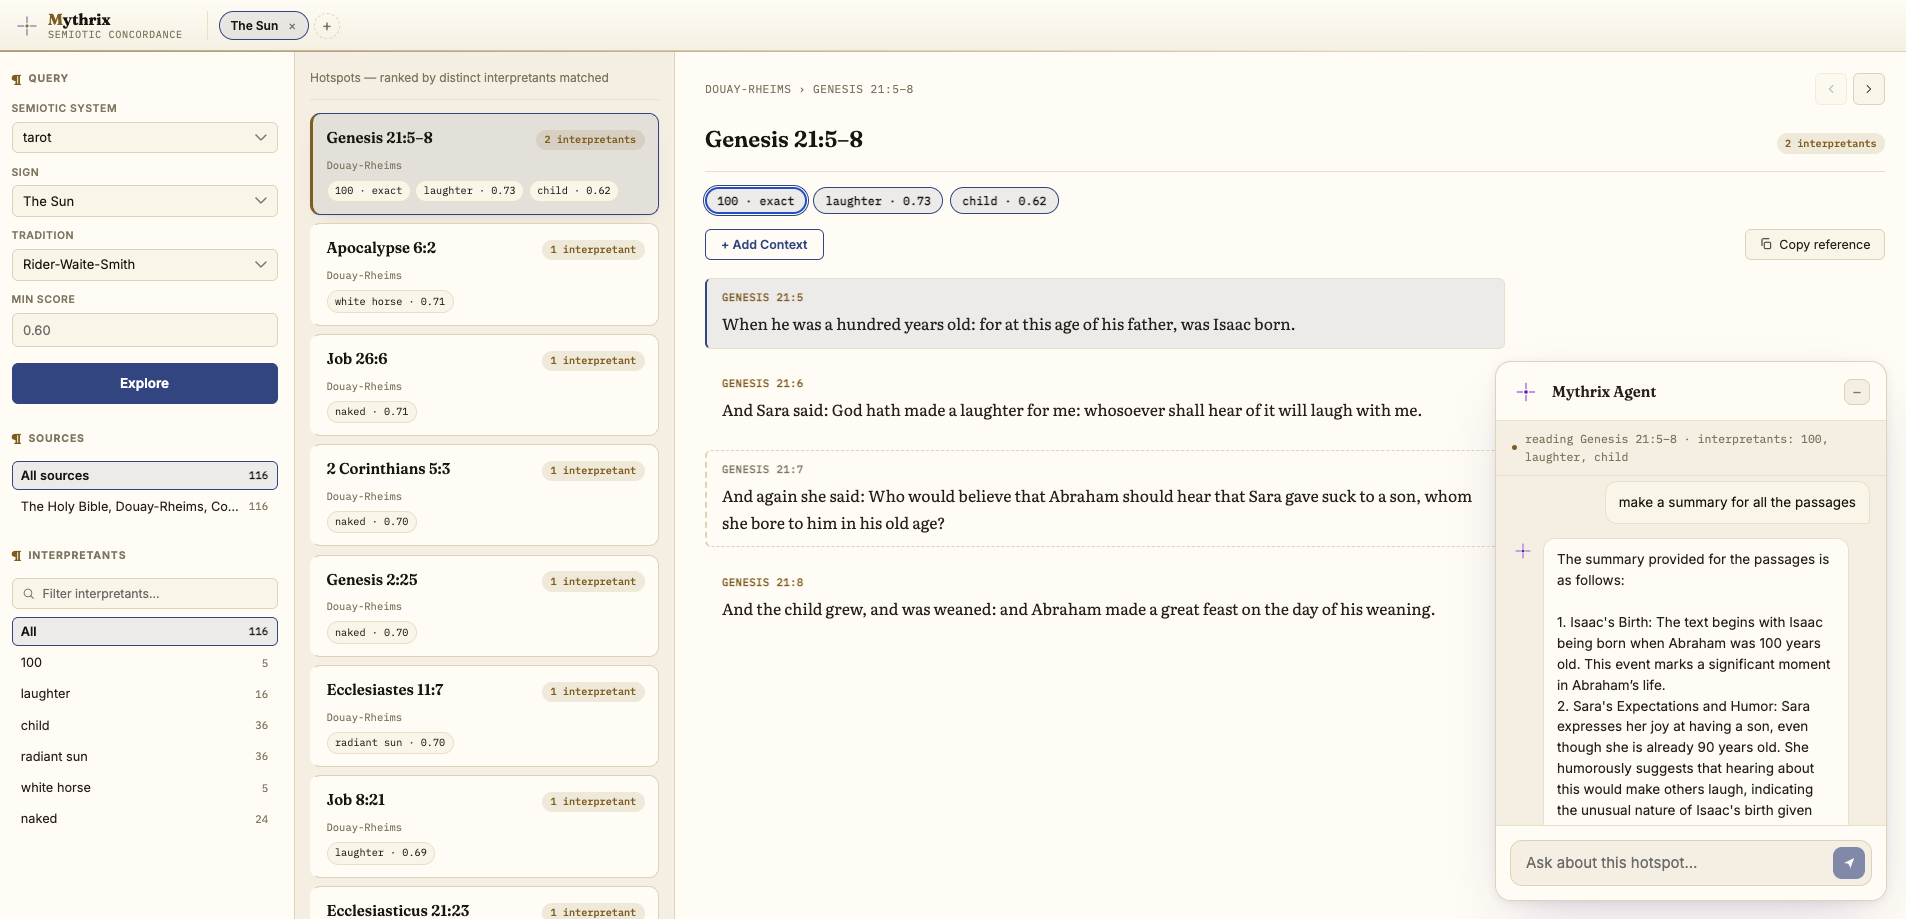
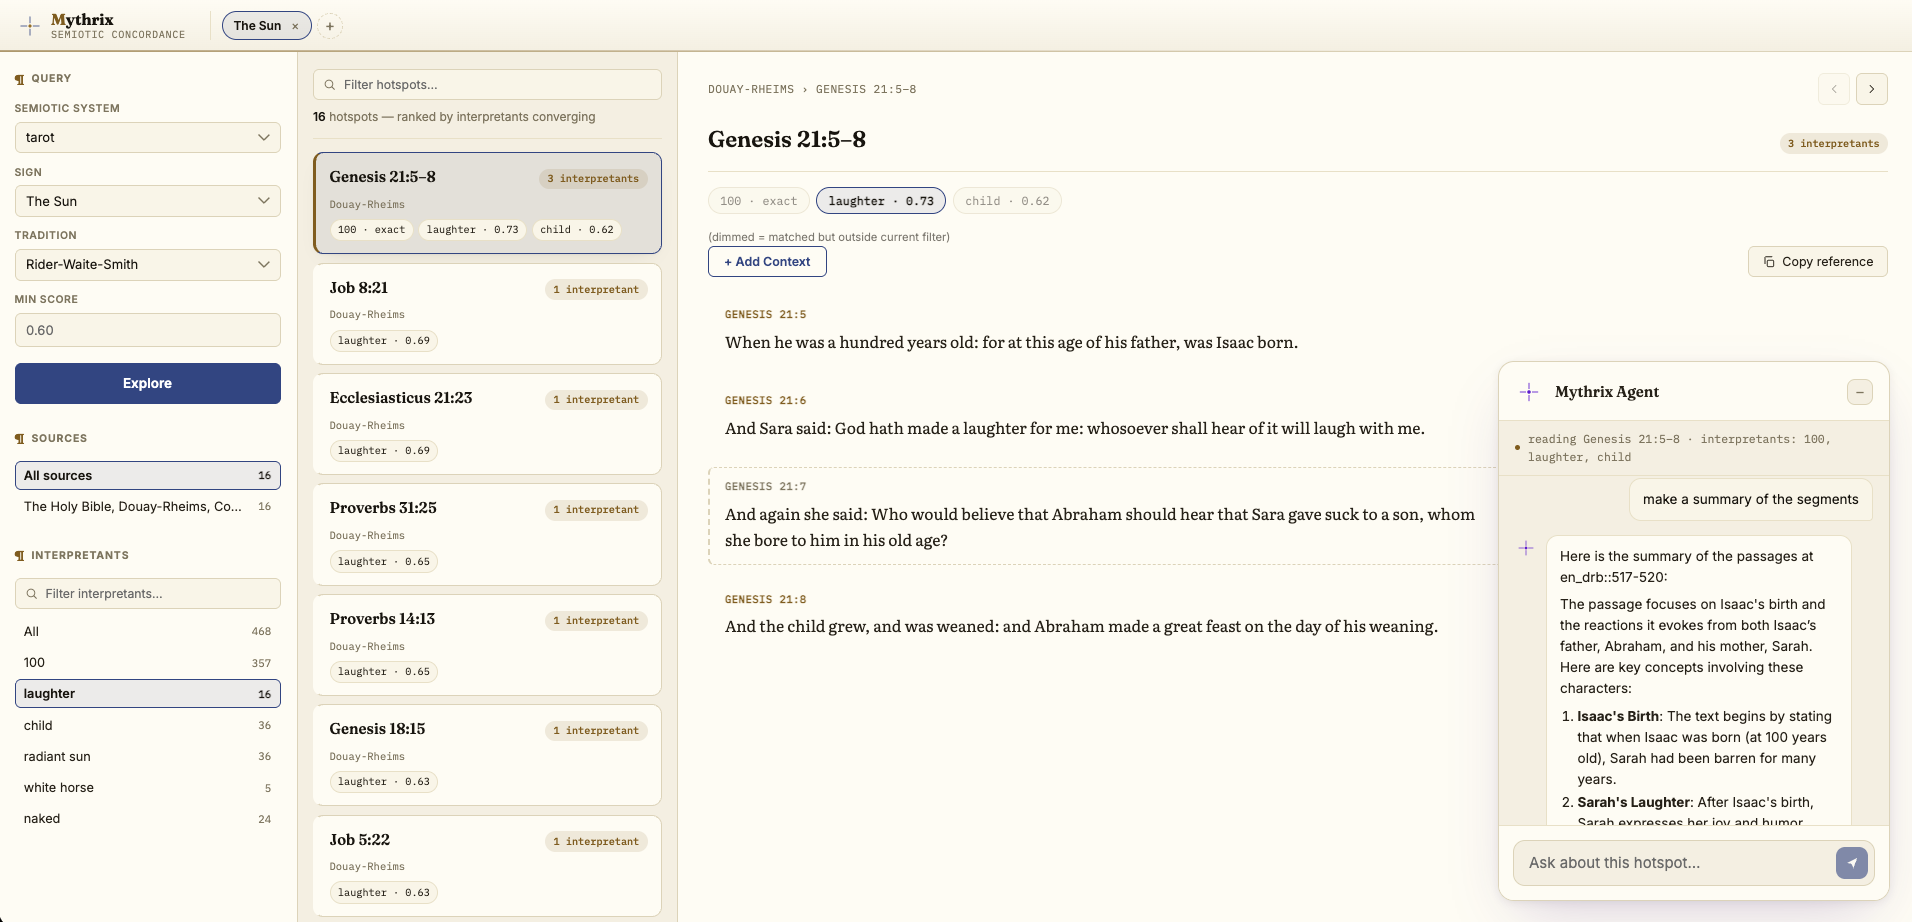
Add live search filter to hotspot rail
Filters the hotspot list by title, source, or interpretant as you type; header shows a live match count. Also updates mythrix.png.

diff --git a/web/src/components/HotspotList.test.tsx b/web/src/components/HotspotList.test.tsx
@@ -4,18 +4,48 @@ import { HotspotList } from './HotspotList';
 import { makeHotspot } from '../test/fixtures';
 
 it('shows the "no query yet" empty state when hasResult is false', () => {
-  render(<HotspotList headerText="Hotspots" hasResult={false} hotspots={[]} selectedRegionId={null} onSelect={vi.fn()} />);
+  render(
+    <HotspotList
+      headerText="Hotspots"
+      hasResult={false}
+      hotspots={[]}
+      selectedRegionId={null}
+      search=""
+      onSearchChange={vi.fn()}
+      onSelect={vi.fn()}
+    />,
+  );
   expect(screen.getByText('No query yet')).toBeInTheDocument();
 });
 
 it('shows the "no matches" empty state when hasResult is true but hotspots is empty', () => {
-  render(<HotspotList headerText="Hotspots" hasResult hotspots={[]} selectedRegionId={null} onSelect={vi.fn()} />);
+  render(
+    <HotspotList
+      headerText="Hotspots"
+      hasResult
+      hotspots={[]}
+      selectedRegionId={null}
+      search=""
+      onSearchChange={vi.fn()}
+      onSelect={vi.fn()}
+    />,
+  );
   expect(screen.getByText('No matches')).toBeInTheDocument();
 });
 
 it('renders the header and one card per hotspot when populated', () => {
   const hotspots = [makeHotspot({ regionId: 'r1' }), makeHotspot({ regionId: 'r2', locator: 'Ecclesiasticus 43:2' })];
-  render(<HotspotList headerText="Hotspots header" hasResult hotspots={hotspots} selectedRegionId="r1" onSelect={vi.fn()} />);
+  render(
+    <HotspotList
+      headerText="Hotspots header"
+      hasResult
+      hotspots={hotspots}
+      selectedRegionId="r1"
+      search=""
+      onSearchChange={vi.fn()}
+      onSelect={vi.fn()}
+    />,
+  );
   expect(screen.getByText('Hotspots header')).toBeInTheDocument();
   expect(screen.getAllByRole('button')).toHaveLength(2);
 });
@@ -23,7 +53,17 @@ it('renders the header and one card per hotspot when populated', () => {
 it('marks the selected hotspot active and calls onSelect with its regionId', async () => {
   const onSelect = vi.fn();
   const hotspots = [makeHotspot({ regionId: 'r1', locator: 'A' }), makeHotspot({ regionId: 'r2', locator: 'B' })];
-  render(<HotspotList headerText="h" hasResult hotspots={hotspots} selectedRegionId="r1" onSelect={onSelect} />);
+  render(
+    <HotspotList
+      headerText="h"
+      hasResult
+      hotspots={hotspots}
+      selectedRegionId="r1"
+      search=""
+      onSearchChange={vi.fn()}
+      onSelect={onSelect}
+    />,
+  );
 
   const buttons = screen.getAllByRole('button');
   expect(buttons[0]).toHaveClass('active');
@@ -31,4 +71,35 @@ it('marks the selected hotspot active and calls onSelect with its regionId', asy
 
   await userEvent.click(buttons[1]);
   expect(onSelect).toHaveBeenCalledWith('r2');
+});
+
+it('renders the search box only when hasResult, and reports typed text via onSearchChange', async () => {
+  const onSearchChange = vi.fn();
+  const { rerender } = render(
+    <HotspotList
+      headerText="Hotspots"
+      hasResult={false}
+      hotspots={[]}
+      selectedRegionId={null}
+      search=""
+      onSearchChange={onSearchChange}
+      onSelect={vi.fn()}
+    />,
+  );
+  expect(screen.queryByPlaceholderText('Filter hotspots…')).not.toBeInTheDocument();
+
+  rerender(
+    <HotspotList
+      headerText="Hotspots"
+      hasResult
+      hotspots={[]}
+      selectedRegionId={null}
+      search=""
+      onSearchChange={onSearchChange}
+      onSelect={vi.fn()}
+    />,
+  );
+  const input = screen.getByPlaceholderText('Filter hotspots…');
+  await userEvent.type(input, 'x');
+  expect(onSearchChange).toHaveBeenCalledWith('x');
 });

diff --git a/web/src/state/useTabs.ts b/web/src/state/useTabs.ts
@@ -36,6 +36,7 @@ export interface Tab {
   selectedInterpretant: string | null;
   selectedRegionId: string | null;
   interpretantSearch: string;
+  hotspotSearch: string;
   agentSessionId: string;
   agentItems: ThreadItem[];
   agentSending: boolean;
@@ -57,6 +58,7 @@ function makeTab(): Tab {
     selectedInterpretant: null,
     selectedRegionId: null,
     interpretantSearch: '',
+    hotspotSearch: '',
     agentSessionId: crypto.randomUUID(),
     agentItems: [],
     agentSending: false,
@@ -129,6 +131,7 @@ export function useTabs() {
   const setSourceId = (value: string | null) => updateActiveTab({ selectedSourceId: value });
   const setInterpretant = (value: string | null) => updateActiveTab({ selectedInterpretant: value });
   const setInterpretantSearch = (value: string) => updateActiveTab({ interpretantSearch: value });
+  const setHotspotSearch = (value: string) => updateActiveTab({ hotspotSearch: value });
   const setRegionId = (value: string | null) => updateActiveTab({ selectedRegionId: value });
 
   async function runQuery() {
@@ -153,17 +156,22 @@ export function useTabs() {
 
   const rankedHotspots = useMemo(() => {
     if (!activeTab.queryResult) return [];
+    const search = activeTab.hotspotSearch.trim().toLowerCase();
     const filtered = activeTab.queryResult.hotspots.filter(
       (hotspot) =>
         (activeTab.selectedSourceId === null || hotspot.source.id === activeTab.selectedSourceId) &&
         (activeTab.selectedInterpretant === null ||
-          hotspot.matches.some((m) => m.interpretant === activeTab.selectedInterpretant)),
+          hotspot.matches.some((m) => m.interpretant === activeTab.selectedInterpretant)) &&
+        (search === '' ||
+          hotspotTitle(hotspot).toLowerCase().includes(search) ||
+          (hotspot.source.citation_label || hotspot.source.title).toLowerCase().includes(search) ||
+          hotspot.matches.some((m) => m.interpretant.toLowerCase().includes(search))),
     );
     return [...filtered].sort((a, b) => {
       if (a.convergenceCount !== b.convergenceCount) return b.convergenceCount - a.convergenceCount;
       return tieBreakScore(b, activeTab.selectedInterpretant) - tieBreakScore(a, activeTab.selectedInterpretant);
     });
-  }, [activeTab.queryResult, activeTab.selectedSourceId, activeTab.selectedInterpretant]);
+  }, [activeTab.queryResult, activeTab.selectedSourceId, activeTab.selectedInterpretant, activeTab.hotspotSearch]);
 
   // Each facet row's counts are scoped to the *other* facet's current selection
   // (never its own), so selecting a Source narrows the Interpretants counts and
@@ -289,6 +297,7 @@ export function useTabs() {
     setSourceId,
     setInterpretant,
     setInterpretantSearch,
+    setHotspotSearch,
     setRegionId,
     runQuery,
     rankedHotspots,

diff --git a/web/src/App.tsx b/web/src/App.tsx
@@ -1,3 +1,4 @@
+import type { ReactNode } from 'react';
 import { useEffect, useState } from 'react';
 import { fetchSigns, fetchTraditions } from './api/client';
 import type { SignSummary, Tradition } from './api/types';
@@ -8,17 +9,20 @@ import { HotspotList } from './components/HotspotList';
 import { TopBar } from './components/TopBar';
 import { DEFAULT_MIN_SCORE, useTabs } from './state/useTabs';
 
-function hotspotHeaderText(sourceLabel: string | null, interpretantValue: string | null): string {
-  if (interpretantValue !== null && sourceLabel !== null) {
-    return `Hotspots matching "${interpretantValue}" in ${sourceLabel} — ranked by total interpretants converging in each hotspot`;
+function hotspotRailHeader(count: number, search: string): ReactNode {
+  const trimmed = search.trim();
+  if (trimmed) {
+    return (
+      <>
+        <b>{count}</b> match{count === 1 ? '' : 'es'} for "{trimmed}"
+      </>
+    );
   }
-  if (interpretantValue !== null) {
-    return `Hotspots matching "${interpretantValue}" — ranked by total interpretants converging in each hotspot`;
-  }
-  if (sourceLabel !== null) {
-    return `Hotspots in ${sourceLabel} — ranked by distinct interpretants matched`;
-  }
-  return 'Hotspots — ranked by distinct interpretants matched';
+  return (
+    <>
+      <b>{count}</b> hotspot{count === 1 ? '' : 's'} — ranked by interpretants converging
+    </>
+  );
 }
 
 function App() {
@@ -50,6 +54,7 @@ function App() {
     setSourceId,
     setInterpretant,
     setInterpretantSearch,
+    setHotspotSearch,
     setRegionId,
     runQuery,
     rankedHotspots,
@@ -65,9 +70,6 @@ function App() {
     setFiltersOpen(false);
     setReaderOpen(false);
   }
-
-  const selectedSourceLabel =
-    activeTab.queryResult?.facets.sources.find((s) => s.id === activeTab.selectedSourceId)?.label ?? null;
 
   return (
     <>
@@ -115,10 +117,12 @@ function App() {
       />
 
       <HotspotList
-        headerText={hotspotHeaderText(selectedSourceLabel, activeTab.selectedInterpretant)}
+        headerText={hotspotRailHeader(rankedHotspots.length, activeTab.hotspotSearch)}
         hasResult={activeTab.queryResult !== null}
         hotspots={rankedHotspots}
         selectedRegionId={activeTab.selectedRegionId}
+        search={activeTab.hotspotSearch}
+        onSearchChange={setHotspotSearch}
         onSelect={(regionId) => {
           setRegionId(regionId);
           setReaderOpen(true);

diff --git a/web/src/components/HotspotList.tsx b/web/src/components/HotspotList.tsx
@@ -1,18 +1,43 @@
+import type { ReactNode } from 'react';
 import type { Hotspot } from '../api/types';
 import { ConvergenceIcon } from './ConvergenceIcon';
 import { HotspotCard } from './HotspotCard';
 
 interface Props {
-  headerText: string;
+  headerText: ReactNode;
   hasResult: boolean;
   hotspots: Hotspot[];
   selectedRegionId: string | null;
+  search: string;
+  onSearchChange: (value: string) => void;
   onSelect: (regionId: string) => void;
 }
 
-export function HotspotList({ headerText, hasResult, hotspots, selectedRegionId, onSelect }: Props) {
+export function HotspotList({
+  headerText,
+  hasResult,
+  hotspots,
+  selectedRegionId,
+  search,
+  onSearchChange,
+  onSelect,
+}: Props) {
   return (
     <section className="hotspot-rail">
+      {hasResult && (
+        <div className="facet-search">
+          <svg viewBox="0 0 24 24" fill="none">
+            <circle cx="11" cy="11" r="7" stroke="currentColor" strokeWidth="1.8" />
+            <path d="M21 21l-4.3-4.3" stroke="currentColor" strokeWidth="1.8" strokeLinecap="round" />
+          </svg>
+          <input
+            type="text"
+            value={search}
+            placeholder="Filter hotspots…"
+            onChange={(event) => onSearchChange(event.target.value)}
+          />
+        </div>
+      )}
       {hasResult && <div className="rail-header">{headerText}</div>}
       {!hasResult && (
         <div className="rail-empty-state">
@@ -25,7 +50,7 @@ export function HotspotList({ headerText, hasResult, hotspots, selectedRegionId,
         <div className="rail-empty-state">
           <ConvergenceIcon />
           <strong>No matches</strong>
-          <p>No hotspots match the current filters — try widening the source or interpretant selection.</p>
+          <p>No hotspots match the current filters — try widening the source, interpretant, or search.</p>
         </div>
       )}
       {hasResult &&

diff --git a/web/src/components/TabStrip.test.tsx b/web/src/components/TabStrip.test.tsx
@@ -18,6 +18,7 @@ function makeTab(overrides: Partial<Tab> = {}): Tab {
     selectedInterpretant: null,
     selectedRegionId: null,
     interpretantSearch: '',
+    hotspotSearch: '',
     agentSessionId: 'session-1',
     agentItems: [],
     agentSending: false,

diff --git a/web/src/index.css b/web/src/index.css
@@ -502,6 +502,11 @@ button {
   border-bottom: 1px solid var(--line-soft);
 }
 
+.rail-header b {
+  color: var(--ink-h);
+  font-weight: 600;
+}
+
 .hotspot-card {
   width: 100%;
   display: flex;

diff --git a/specs/interfaces/web-viewer.md b/specs/interfaces/web-viewer.md
@@ -18,7 +18,7 @@ The tabbed frontend presenting [Ranking](../retrieval/ranking.md) results, backe
 
 ### Tabbed workspace & redesign
 
-- FR-WEB-06: The web viewer holds one or more tabs at a time. Each tab owns, in isolation from every other tab: the selected semiotic system, sign, tradition, and min-score override (FR-WEB-01/FR-WEB-04); the current query result, if any (FR-WEB-02); the Sources/Interpretants facet selections and the interpretant-search filter text (FR-WEB-02, FR-WEB-13); and the selected hotspot (FR-WEB-03). Changing any of these in one tab never affects another tab's state.
+- FR-WEB-06: The web viewer holds one or more tabs at a time. Each tab owns, in isolation from every other tab: the selected semiotic system, sign, tradition, and min-score override (FR-WEB-01/FR-WEB-04); the current query result, if any (FR-WEB-02); the Sources/Interpretants facet selections, the interpretant-search filter text, and the hotspot-rail search filter text (FR-WEB-02, FR-WEB-13, FR-WEB-16); and the selected hotspot (FR-WEB-03). Changing any of these in one tab never affects another tab's state.
 - FR-WEB-07: A tab strip, in the top bar, lists every open tab in creation order and visually distinguishes the active tab. The user can: switch to any tab by selecting it; open a new, empty tab; and close any tab. Closing the only remaining open tab replaces it with a new, empty tab — the viewer always has at least one tab.
 - FR-WEB-08: A tab's displayed label reflects its own state: the queried sign's name once that tab has a result, otherwise a placeholder indicating no query has run yet in that tab.
 - FR-WEB-09: A new tab starts with no system/sign/tradition selected, no query result, and no facet selections — the same empty state the viewer has before a first query — never copying another tab's selections.
@@ -28,6 +28,7 @@ The tabbed frontend presenting [Ranking](../retrieval/ranking.md) results, backe
 - FR-WEB-13: The Interpretants facet (FR-WEB-02) offers a text filter over the facet's own option labels; it narrows which interpretant options are listed, without changing the interpretant selection itself or any facet count. This filter text is part of a tab's own state (FR-WEB-06).
 - FR-WEB-14: The web viewer's visual presentation follows a single, shared design system across the whole shell, including the agent panel: a warm color palette, a serif/sans/monospace type system, and a layout of a top bar (brand + tab strip), a control panel (query form + facets), a hotspot rail, and a hotspot detail reading pane, collapsing the control panel and detail pane into slide-over drawers below a defined viewport breakpoint. No functional requirement established elsewhere in this spec changes as a result of this restyling — every existing behavior (facet AND-filtering, hotspot navigation, Add Context, copy reference, agent chat) is preserved, only its presentation changes.
 - FR-WEB-15: The agent dock's visual design tokens are reconciled with the rest of the shell's tokens — it does not define its own, separate color palette.
+- FR-WEB-16: The hotspot rail offers a text filter that narrows the displayed, ranked hotspot list (FR-WEB-03) to hotspots whose title, source, or any matched interpretant contains the filter text (case-insensitive substring match), updating live as the user types. It composes with the Sources/Interpretants facet selections (FR-WEB-02) — all AND-combined, none replacing another. Above the list, a header line shows the current hotspot count with "ranked by interpretants converging" when the filter text is empty, or the count of matches for the filter text while it is non-empty. This filter text is part of a tab's own state (FR-WEB-06).
 
 ## Non-goals
 

diff --git a/specs/spec.md b/specs/spec.md
@@ -171,11 +171,11 @@ The corpus document is not Waite's own text (see [corpus.md](retrieval/corpus.md
 | `FR-RK` | Ranking | [retrieval/ranking.md](retrieval/ranking.md) | FR-RK-01–FR-RK-10 |
 | `FR-CE` | Context Expansion | [retrieval/context-expansion.md](retrieval/context-expansion.md) | FR-CE-01–FR-CE-12 |
 | `FR-API` | Backend API | [interfaces/api.md](interfaces/api.md) | FR-API-01–FR-API-04 |
-| `FR-WEB` | Web Viewer | [interfaces/web-viewer.md](interfaces/web-viewer.md) | FR-WEB-01–FR-WEB-15 |
+| `FR-WEB` | Web Viewer | [interfaces/web-viewer.md](interfaces/web-viewer.md) | FR-WEB-01–FR-WEB-16 |
 | `FR-AG` | Conversational Agent | [interfaces/agent.md](interfaces/agent.md) | FR-AG-01–FR-AG-32 |
 | `CON-SYS` | System-wide constraints | this document, §7 | CON-SYS-01 |
 
-111 active requirements in total. A prior flat-numbered scheme (`FR1`–`FR102`) was superseded by the identifiers above; six items from that scheme (`FR14`, `FR15`, `FR25`, `FR26`, `FR54`, `FR78`) were retired outright — superseded by concept/pair retrieval and the conversational agent's summarize tool replacing an earlier synthesized-summary design — and carry no identifier in the current scheme.
+112 active requirements in total. A prior flat-numbered scheme (`FR1`–`FR102`) was superseded by the identifiers above; six items from that scheme (`FR14`, `FR15`, `FR25`, `FR26`, `FR54`, `FR78`) were retired outright — superseded by concept/pair retrieval and the conversational agent's summarize tool replacing an earlier synthesized-summary design — and carry no identifier in the current scheme.
 
 ## 11. Architectural Decisions
 
